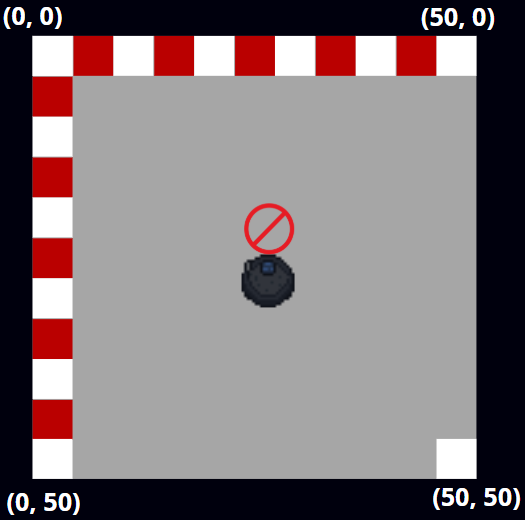
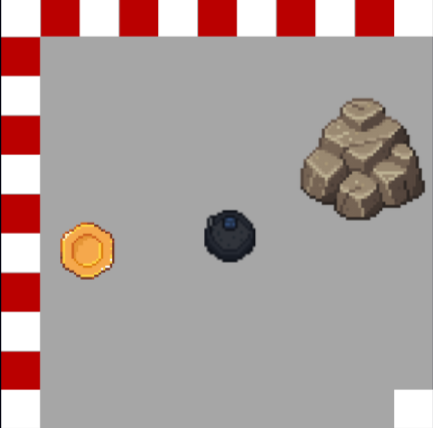
📚 doc: Atualização das imagens ampliada e sprite sheet do robô.

diff --git a/README.md b/README.md
@@ -1,5 +1,5 @@
 <p align="center">
-  <img src="img/capa.png" width = "250" />
+  <img src="img/capa.png" width = "200" />
 </p>
 
 <h1 align="center">CoinBot Rush
@@ -50,6 +50,14 @@ Essa integração cria uma experiência inovadora que une o mundo dos jogos, da 
 Durante a partida, a interface do console exibe o mapa do circuito, indicando a posição do robô, das moedas e dos obstáculos virtuais. O jogador pode escolher entre dois modos de controle: <b>teleoperação</b>, assumindo manualmente o comando do robô, ou <b>modo autônomo</b>, no qual o robô navega sozinho, utilizando seus sensores e algoritmos de navegação.
 
 O desafio está em navegar com precisão, traçar rotas eficientes, evitar colisões e otimizar o tempo para coletar o maior número possível de moedas. A proposta oferece uma experiência que une a dinâmica de videogames com o controle físico de robôs, proporcionando uma interação única entre os mundos real e virtual.
+
+<h3>Sprites e Interface</h3>
+sprites do turtlebot 4 nas 12 direções, sprites de moedas, obstáculos e elementos de interface foram criados para compor a experiência visual do jogo. A interface do console exibe o mapa do circuito, a pontuação atual e o tempo restante para completar a corrida.
+
+Sprite do robô:
+
+<p align="center">
+  <img src="img/spriteTurtlebot.png" width="600" />
 
 Inspirado em jogos clássicos de corrida, o circuito possui um trajeto pré-definido, com obstáculos estrategicamente posicionados e moedas distribuídas como itens de coleta. O mapa do jogo é maior que a área visível na tela do console; conforme o robô se desloca, a câmera acompanha seu movimento, permitindo que o jogador explore o espaço, visualize o ambiente e planeje suas rotas de forma estratégica.
 
